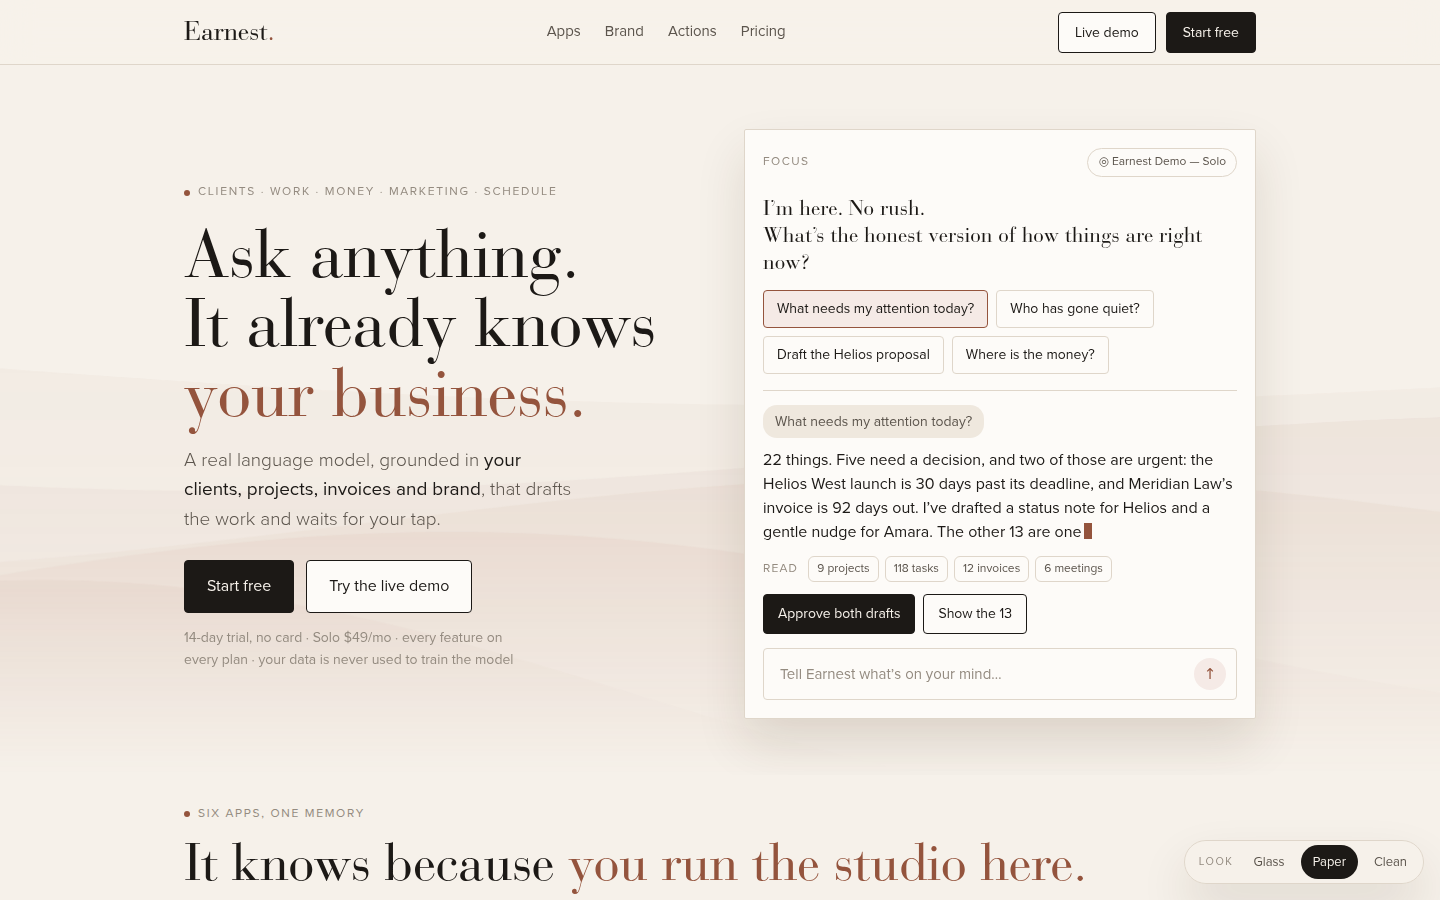
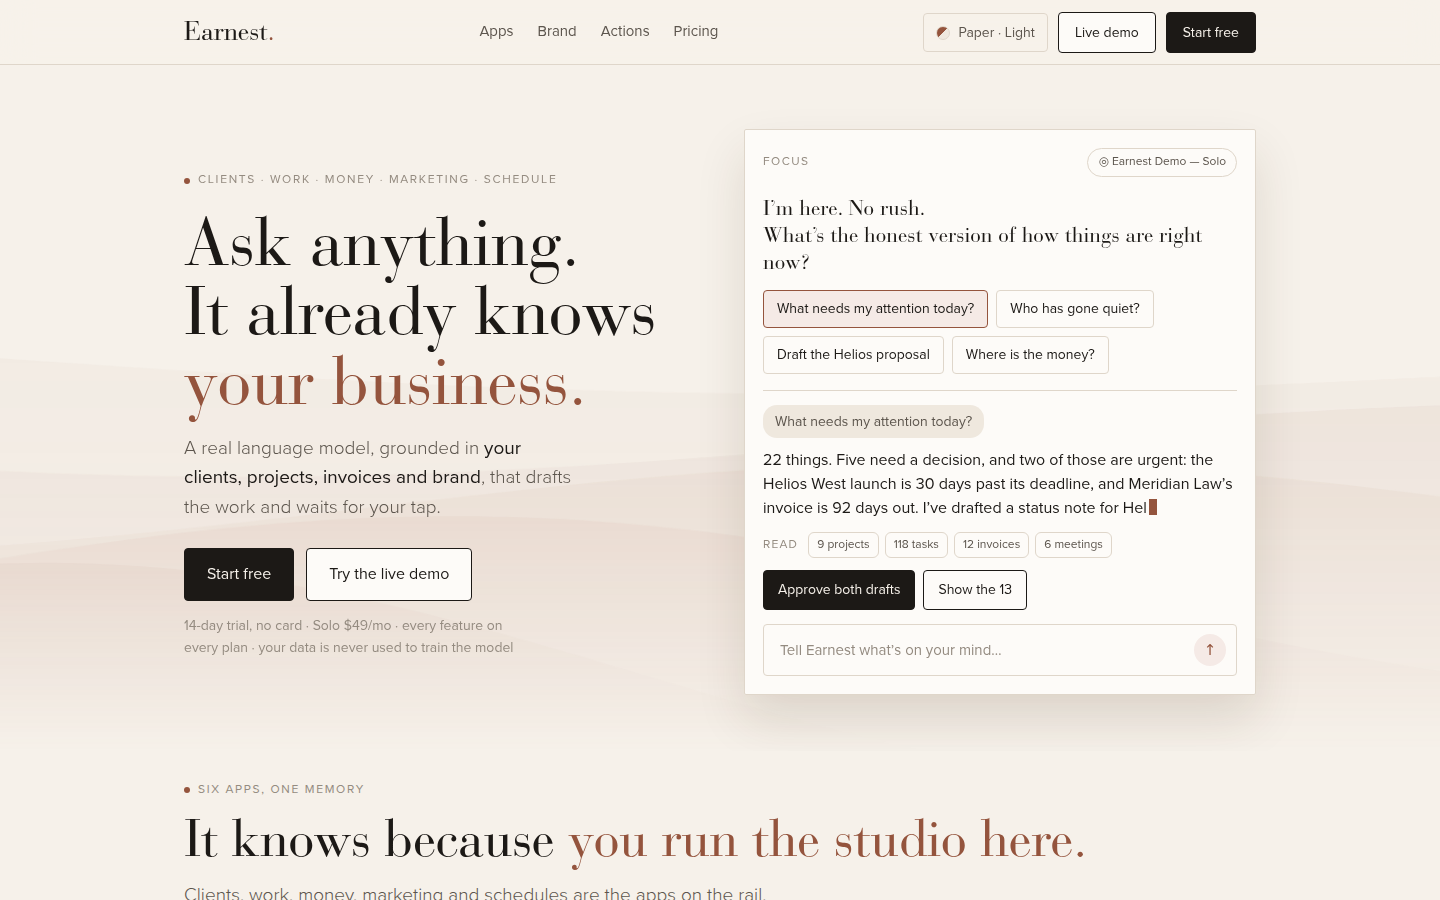
feat(mockups): theme control in the nav, and a Created-by-Hue footer
The combined home gets a Theme control in the nav with the app's own two
axes, Look (Glass, Paper, Clean) and Mode (Light, Dark), six token sets
in all; #paper-dark and the like deep-link both. The footer carries a
"Created by Hue" block saying Earnest is made, sold and billed by Hue
Studios, so a card statement matches the Stripe account. The three
round-1 concepts carry the same line.

Claude-Session: https://claude.ai/code/session_0118qsSvWxcWCHXC2y1mfa98

diff --git a/mockups/2026-09-redesign/earnest-home.html b/mockups/2026-09-redesign/earnest-home.html
@@ -33,6 +33,15 @@
   --wave:0,150,230; --wave-a:.09;
   --measure:1120px;
 }
+/* ── Glass · light ── */
+:root[data-look="glass"][data-mode="light"]{
+  color-scheme:light;
+  --bg:#f3f6fc; --surface:rgba(255,255,255,.7); --surface-2:rgba(226,234,250,.9); --paper:#e9eef8;
+  --ink:#0f1730; --ink-2:#4a5470; --ink-3:#8590aa; --line:rgba(20,40,90,.12);
+  --pop:#0099d6; --pop-ink:#fff; --pop-soft:rgba(0,153,214,.1);
+  --shadow:0 24px 60px rgba(20,40,90,.12);
+  --wave:0,150,230; --wave-a:.07;
+}
 /* ── Paper ── */
 :root[data-look="paper"]{
   color-scheme:light;
@@ -44,6 +53,15 @@
   --font-display:'Bauer Bodoni','Bodoni MT','Didot',Georgia,serif;
   --h-weight:400; --h-transform:none; --h-tracking:-.01em; --h-lh:1.02; --h-scale:1;
   --wave:150,80,60; --wave-a:.06;
+}
+/* ── Paper · dark ── */
+:root[data-look="paper"][data-mode="dark"]{
+  color-scheme:dark;
+  --bg:#1b1714; --surface:#221d19; --surface-2:#2a241f; --paper:#221d19;
+  --ink:#f1ebe3; --ink-2:#bdb3a6; --ink-3:#7d746a; --line:#352e28;
+  --pop:hsl(16 55% 62%); --pop-ink:#1b1714; --pop-soft:hsl(16 40% 20%);
+  --shadow:0 24px 50px rgba(0,0,0,.45);
+  --wave:190,110,80; --wave-a:.07;
 }
 /* ── Clean ── */
 :root[data-look="clean"]{
@@ -58,6 +76,14 @@
   --wave:36,82,238; --wave-a:.05;
 }
 
+/* ── Clean · dark ── */
+:root[data-look="clean"][data-mode="dark"]{
+  color-scheme:dark;
+  --bg:#0c0e14; --surface:#0c0e14; --surface-2:#161a24; --paper:#161a24;
+  --ink:#f2f4f8; --ink-2:#aab1c2; --ink-3:#6e7689; --line:#252a37;
+  --pop:hsl(228 91% 66%); --pop-ink:#0c0e14; --pop-soft:hsl(228 60% 18%);
+  --wave:60,110,255; --wave-a:.07;
+}
 *{box-sizing:border-box}
 html,body{margin:0}
 body{background:var(--bg);color:var(--ink);font-family:var(--font-body);font-size:17px;line-height:1.55;-webkit-font-smoothing:antialiased;overflow-x:hidden;transition:background .25s,color .25s}
@@ -88,16 +114,25 @@ h1,h2,h3{font-family:var(--font-display);font-weight:var(--h-weight);text-transf
 .nav{position:sticky;top:env(safe-area-inset-top,0px);z-index:20;backdrop-filter:blur(16px);background:color-mix(in srgb,var(--bg) 82%,transparent);border-bottom:1px solid var(--line)}
 .nav .wrap{display:flex;align-items:center;justify-content:space-between;height:64px;gap:16px}
 .nav ul{display:flex;gap:24px;list-style:none;margin:0;padding:0;font-size:15px;color:var(--ink-2)}
-.nav .cta{display:flex;gap:10px}
+.nav .cta{display:flex;gap:10px;align-items:center}
 .nav .btn{padding:9px 16px;font-size:14px}
 @media(max-width:860px){.nav ul{display:none}}
 
-/* look switcher */
-.looks{position:fixed;right:16px;bottom:calc(16px + env(safe-area-inset-bottom,0px));z-index:30;display:flex;gap:4px;padding:4px;border-radius:999px;border:1px solid var(--line);background:color-mix(in srgb,var(--bg) 85%,transparent);backdrop-filter:blur(12px);box-shadow:var(--shadow)}
-.looks button{font:inherit;font-size:13px;padding:7px 12px;border-radius:999px;border:0;background:transparent;color:var(--ink-2);cursor:pointer}
-.looks button[aria-pressed="true"]{background:var(--ink);color:var(--bg)}
-.looks .lab{align-self:center;padding-left:10px;padding-right:4px;font-size:11px;letter-spacing:.14em;text-transform:uppercase;color:var(--ink-3)}
-@media(max-width:560px){.looks .lab{display:none}}
+/* theme control (in the nav): Look × Mode, the app's own two axes */
+.theme{position:relative}
+.theme-btn{display:inline-flex;align-items:center;gap:8px;font:inherit;font-size:14px;padding:8px 12px;border-radius:var(--r-btn);border:1px solid var(--line);background:transparent;color:var(--ink-2);cursor:pointer}
+.theme-btn:hover{color:var(--ink)}
+.theme-btn .sw{width:14px;height:14px;border-radius:50%;background:linear-gradient(135deg,var(--pop) 50%,var(--surface-2) 50%);border:1px solid var(--line)}
+.theme-btn .lbl{white-space:nowrap}
+@media(max-width:560px){.theme-btn .lbl{display:none}}
+.theme-pop{position:absolute;right:0;top:calc(100% + 10px);min-width:260px;padding:14px;border-radius:var(--r-card);border:1px solid var(--line);background:var(--bg);box-shadow:var(--shadow);display:grid;gap:12px;z-index:40}
+.theme-pop[hidden]{display:none}
+.theme-pop .row{display:grid;gap:6px}
+.theme-pop .row b{font-weight:400;font-size:11px;letter-spacing:.14em;text-transform:uppercase;color:var(--ink-3)}
+.theme-pop .seg{display:flex;gap:4px;padding:3px;border-radius:var(--r-btn);border:1px solid var(--line);background:var(--surface-2)}
+.theme-pop .seg button{flex:1;font:inherit;font-size:13px;padding:7px 10px;border-radius:var(--r-btn);border:0;background:transparent;color:var(--ink-2);cursor:pointer}
+.theme-pop .seg button[aria-pressed="true"]{background:var(--ink);color:var(--bg)}
+.theme-pop small{color:var(--ink-3);font-size:12px;line-height:1.4}
 
 /* hero */
 .hero{position:relative;isolation:isolate;overflow:hidden;padding-block:64px 56px}
@@ -220,9 +255,18 @@ h1,h2,h3{font-family:var(--font-display);font-weight:var(--h-weight);text-transf
 .cta .mark{font-size:clamp(64px,12vw,140px);line-height:1}
 .cta .tag{font-family:var(--font-note);font-size:26px;color:var(--pop);margin-top:6px}
 .cta .actions{display:flex;justify-content:center;gap:12px;flex-wrap:wrap;margin-top:28px}
-footer{border-top:1px solid var(--line);padding-block:28px 96px;font-size:14px;color:var(--ink-3)}
-footer .wrap{display:flex;justify-content:space-between;gap:16px;flex-wrap:wrap}
-footer a{margin-right:18px}
+footer{border-top:1px solid var(--line);padding-block:40px 48px;font-size:14px;color:var(--ink-3)}
+footer .wrap{display:grid;gap:22px}
+footer .links a{margin-right:18px}
+.hue{display:grid;grid-template-columns:auto 1fr;gap:18px;align-items:center;padding:20px 22px;border:1px solid var(--line);border-radius:var(--r-card);background:var(--surface)}
+.hue .hmark{font-family:var(--font-mark);font-size:34px;line-height:1;color:var(--ink);letter-spacing:-.01em}
+.hue .hmark i{font-style:normal;color:var(--pop)}
+.hue .hmark small{display:block;font-family:var(--font-body);font-size:11px;letter-spacing:.16em;text-transform:uppercase;color:var(--ink-3);margin-top:6px}
+.hue p{color:var(--ink-2);font-size:14px;max-width:70ch}
+.hue p strong{color:var(--ink);font-weight:400}
+.hue p a{color:var(--pop)}
+@media(max-width:560px){.hue{grid-template-columns:1fr}}
+footer .copy{display:flex;justify-content:space-between;gap:16px;flex-wrap:wrap}
 @media(prefers-reduced-motion:reduce){*{animation:none!important;transition:none!important}}
 </style>
 </head>
@@ -238,18 +282,19 @@ footer a{margin-right:18px}
       <li><a href="#pricing">Pricing</a></li>
     </ul>
     <div class="cta">
+      <div class="theme">
+        <button class="theme-btn" id="themeBtn" aria-expanded="false" aria-controls="themePop"><span class="sw" aria-hidden="true"></span><span class="lbl" id="themeLbl">Glass · Dark</span></button>
+        <div class="theme-pop" id="themePop" hidden>
+          <div class="row"><b>Look</b><div class="seg" role="group" aria-label="Look"><button data-look="glass" aria-pressed="true">Glass</button><button data-look="paper" aria-pressed="false">Paper</button><button data-look="clean" aria-pressed="false">Clean</button></div></div>
+          <div class="row"><b>Mode</b><div class="seg" role="group" aria-label="Mode"><button data-mode="light" aria-pressed="false">Light</button><button data-mode="dark" aria-pressed="true">Dark</button></div></div>
+          <small>The same three looks and two modes you get inside Earnest. Remembered on this browser.</small>
+        </div>
+      </div>
       <a class="btn" href="https://app.earnest.guru/try-demo?persona=solo">Live demo</a>
       <a class="btn primary" href="https://app.earnest.guru/register">Start free</a>
     </div>
   </div>
 </nav>
-
-<div class="looks" role="group" aria-label="Look">
-  <span class="lab">Look</span>
-  <button data-look="glass" aria-pressed="true">Glass</button>
-  <button data-look="paper" aria-pressed="false">Paper</button>
-  <button data-look="clean" aria-pressed="false">Clean</button>
-</div>
 
 <header class="hero">
   <canvas id="wave" aria-hidden="true"></canvas>
@@ -428,8 +473,14 @@ footer a{margin-right:18px}
 
 <footer>
   <div class="wrap">
-    <span>© 2026 Earnest · made by Hue Studios</span>
-    <span><a href="#">Features</a><a href="#">Blog</a><a href="#">Privacy</a><a href="#">Terms</a><a href="#">Refunds</a></span>
+    <div class="hue">
+      <div class="hmark">Created by Hue<i>.</i><small>Hue Studios</small></div>
+      <p><strong>Earnest is made and sold by Hue Studios.</strong> Your subscription is billed by Hue Studios and shows as Hue Studios on your card statement. <a href="https://huestudios.com">huestudios.com</a></p>
+    </div>
+    <div class="copy">
+      <span>© 2026 Hue Studios · Earnest · Do good work.</span>
+      <span class="links"><a href="#">Features</a><a href="#">Blog</a><a href="#">Privacy</a><a href="#">Terms</a><a href="#">Refunds</a></span>
+    </div>
   </div>
 </footer>
 
@@ -438,23 +489,35 @@ footer a{margin-right:18px}
   var reduce=matchMedia('(prefers-reduced-motion: reduce)').matches;
   var root=document.documentElement;
 
-  // ── Look ── the same three the app ships; #glass / #paper / #clean deep-links.
-  var LOOKS=['glass','paper','clean'];
-  var lookBtns=[].slice.call(document.querySelectorAll('.looks button'));
-  function setLook(l,store){
-    if(LOOKS.indexOf(l)<0)return;
-    root.setAttribute('data-look',l);
+  // ── Theme ── Look × Mode, the app's own two axes. #glass / #paper / #clean
+  // deep-link a look (and its default mode); #glass-light etc. set both.
+  var LOOKS=['glass','paper','clean'],MODES=['light','dark'],DEFAULT_MODE={glass:'dark',paper:'light',clean:'light'};
+  var pop=document.getElementById('themePop'),tbtn=document.getElementById('themeBtn'),tlbl=document.getElementById('themeLbl');
+  var lookBtns=[].slice.call(pop.querySelectorAll('[data-look]')),modeBtns=[].slice.call(pop.querySelectorAll('[data-mode]'));
+  function cap(x){return x.charAt(0).toUpperCase()+x.slice(1);}
+  function setTheme(l,m,store){
+    if(LOOKS.indexOf(l)<0)l='glass'; if(MODES.indexOf(m)<0)m=DEFAULT_MODE[l];
+    root.setAttribute('data-look',l);root.setAttribute('data-mode',m);
     lookBtns.forEach(function(b){b.setAttribute('aria-pressed',String(b.dataset.look===l));});
+    modeBtns.forEach(function(b){b.setAttribute('aria-pressed',String(b.dataset.mode===m));});
+    tlbl.textContent=cap(l)+' · '+cap(m);
     [].slice.call(document.querySelectorAll('img[data-glass]')).forEach(function(im){
       var src=im.getAttribute('data-'+l)||im.getAttribute('data-glass'); if(im.getAttribute('src')!==src)im.setAttribute('src',src);
     });
-    if(store){try{localStorage.setItem('earnest-look',l);}catch(e){}}
+    if(store){try{localStorage.setItem('earnest-look',l);localStorage.setItem('earnest-mode',m);}catch(e){}}
     readWave();
   }
-  lookBtns.forEach(function(b){b.addEventListener('click',function(){setLook(b.dataset.look,true);});});
-  var initial=(location.hash||'').slice(1);
-  if(LOOKS.indexOf(initial)<0){try{initial=localStorage.getItem('earnest-look')||'glass';}catch(e){initial='glass';}}
-  addEventListener('hashchange',function(){var h=location.hash.slice(1);if(LOOKS.indexOf(h)>=0)setLook(h,false);});
+  function cur(){return {l:root.getAttribute('data-look'),m:root.getAttribute('data-mode')};}
+  lookBtns.forEach(function(b){b.addEventListener('click',function(){setTheme(b.dataset.look,cur().m,true);});});
+  modeBtns.forEach(function(b){b.addEventListener('click',function(){setTheme(cur().l,b.dataset.mode,true);});});
+  tbtn.addEventListener('click',function(){var open=pop.hidden;pop.hidden=!open;tbtn.setAttribute('aria-expanded',String(open));});
+  document.addEventListener('click',function(e){if(!pop.hidden&&!pop.contains(e.target)&&e.target!==tbtn&&!tbtn.contains(e.target)){pop.hidden=true;tbtn.setAttribute('aria-expanded','false');}});
+  document.addEventListener('keydown',function(e){if(e.key==='Escape'&&!pop.hidden){pop.hidden=true;tbtn.setAttribute('aria-expanded','false');}});
+  function fromHash(){var h=(location.hash||'').slice(1).split('-');return LOOKS.indexOf(h[0])>=0?{l:h[0],m:h[1]||DEFAULT_MODE[h[0]]}:null;}
+  var init=fromHash(),initialL='glass',initialM='dark';
+  if(init){initialL=init.l;initialM=init.m;}
+  else{try{initialL=localStorage.getItem('earnest-look')||'glass';initialM=localStorage.getItem('earnest-mode')||DEFAULT_MODE[initialL];}catch(e){}}
+  addEventListener('hashchange',function(){var h=fromHash();if(h)setTheme(h.l,h.m,false);});
 
   // ── Focus demo ── answers written from the seeded demo workspace.
   var Q=[
@@ -511,7 +574,7 @@ footer a{margin-right:18px}
     }
     if(!reduce){t+=0.006;requestAnimationFrame(draw);}
   }
-  setLook(initial,false);
+  setTheme(initialL,initialM,false);
   draw();
 })();
 </script>

diff --git a/mockups/2026-09-redesign/index.html b/mockups/2026-09-redesign/index.html
@@ -84,7 +84,7 @@ tr:last-child td,tr:last-child th{border-bottom:0}
     <span class="mark">Earnest<b>.</b></span>
     <span class="eyebrow">Landing page redesign · September 2026 · round 2</span>
     <h1>One home, three looks.</h1>
-    <p class="lede">Concept A’s thesis (the model, grounded in the studio) with Concept B’s breadth (the six-app switcher), in about half the words, in each of the app’s three looks. The look switcher sits bottom-right on the page; each thumbnail below opens the page already in that look.</p>
+    <p class="lede">Concept A’s thesis (the model, grounded in the studio) with Concept B’s breadth (the six-app switcher), in about half the words, in each of the app’s three looks. A Theme control in the nav sets Look (Glass, Paper, Clean) and Mode (Light, Dark), the same two axes as inside the app. Each thumbnail below opens the page already in that look.</p>
   </header>
 
   <div class="looks">
@@ -105,16 +105,17 @@ tr:last-child td,tr:last-child th{border-bottom:0}
         <li><b>Pricing from B.</b> The capacity ladder is shorter than three plan cards and says the same thing.</li>
         <li><b>FAQ down to three.</b> ChatGPT, missing context, and “will it send on its own”.</li>
         <li><b>Wording.</b> “No-training terms” became “your data is never used to train the model”, here and in the three original concepts.</li>
+        <li><b>Footer.</b> A “Created by Hue” block: Earnest is made and sold by Hue Studios, and the subscription is billed by Hue Studios, so the statement matches the Stripe account. The three concepts carry the same line.</li>
       </ul>
     </div>
     <div>
       <h2>How the looks work</h2>
       <ul>
-        <li><b>One page, one token set per look,</b> switched with a <code>data-look</code> attribute on the root, which is how the app itself does it. Nothing is duplicated.</li>
-        <li><b>Glass</b> is the default: navy ground, sky-blue accent, light Proxima headings, glass cards, the wave field.</li>
-        <li><b>Paper</b> swaps to linen, oxide accent, Bodoni headings, square corners, warm shadows. The home and Money screenshots swap to their Paper captures.</li>
-        <li><b>Clean</b> swaps to white, one blue, DIN condensed caps, borders instead of shadows. The home screenshot swaps to its Clean capture.</li>
-        <li><b>Deep links.</b> <code>#glass</code>, <code>#paper</code> and <code>#clean</code> open the page in that look; the choice is remembered per browser.</li>
+        <li><b>One page, one token set per look and mode,</b> switched with <code>data-look</code> and <code>data-mode</code> on the root, which is how the app itself does it. Six combinations, nothing duplicated.</li>
+        <li><b>Glass</b> is the default and opens dark: navy ground, sky-blue accent, light Proxima headings, glass cards, the wave field. Its light mode is a cool white with the same blue.</li>
+        <li><b>Paper</b> opens light: linen, oxide accent, Bodoni headings, square corners, warm shadows. Dark mode is ink-on-dark-linen with a warmer oxide. The home and Money screenshots swap to their Paper captures.</li>
+        <li><b>Clean</b> opens light: white, one blue, DIN condensed caps, borders instead of shadows. Dark mode is near-black with the same blue lifted. The home screenshot swaps to its Clean capture.</li>
+        <li><b>Deep links.</b> <code>#glass</code>, <code>#paper</code> and <code>#clean</code> open a look in its default mode; <code>#paper-dark</code> and the like set both. The choice is remembered per browser.</li>
         <li><b>Gap.</b> Only the home and Money screens were captured in Paper and Clean, so the other switcher tabs show Glass screenshots in every look. A capture run with the other looks would close it.</li>
       </ul>
     </div>

diff --git a/mockups/2026-09-redesign/concept-a.html b/mockups/2026-09-redesign/concept-a.html
@@ -413,7 +413,7 @@ footer a{margin-right:18px}
 
 <footer>
   <div class="wrap">
-    <span>© 2026 Earnest · made by Hue Studios</span>
+    <span><strong style="font-weight:400;color:inherit">Created by Hue.</strong> Earnest is made and sold by Hue Studios; your subscription is billed by Hue Studios. © 2026</span>
     <span><a href="#">Features</a><a href="#">Blog</a><a href="#">Privacy</a><a href="#">Terms</a><a href="#">Refunds</a></span>
   </div>
 </footer>

diff --git a/mockups/2026-09-redesign/concept-b.html b/mockups/2026-09-redesign/concept-b.html
@@ -379,7 +379,7 @@ footer a{margin-right:18px}
 
 <footer>
   <div class="wrap">
-    <span>© 2026 Earnest · made by Hue Studios</span>
+    <span><strong style="font-weight:400;color:inherit">Created by Hue.</strong> Earnest is made and sold by Hue Studios; your subscription is billed by Hue Studios. © 2026</span>
     <span><a href="#">Features</a><a href="#">Blog</a><a href="#">Privacy</a><a href="#">Terms</a><a href="#">Refunds</a></span>
   </div>
 </footer>

diff --git a/mockups/2026-09-redesign/concept-c.html b/mockups/2026-09-redesign/concept-c.html
@@ -406,7 +406,7 @@ footer a{margin-right:18px}
 
 <footer>
   <div class="wrap">
-    <span>© 2026 Earnest · made by Hue Studios</span>
+    <span><strong style="font-weight:400;color:inherit">Created by Hue.</strong> Earnest is made and sold by Hue Studios; your subscription is billed by Hue Studios. © 2026</span>
     <span><a href="#">Features</a><a href="#">Blog</a><a href="#">Privacy</a><a href="#">Terms</a><a href="#">Refunds</a></span>
   </div>
 </footer>

diff --git a/mockups/2026-09-redesign/README.md b/mockups/2026-09-redesign/README.md
@@ -7,16 +7,23 @@ links to the three round-1 concepts it was built from.
 
 Concept A's thesis (the model, grounded in the studio) with Concept B's
 breadth (the six-app switcher), in about half the words, presented in all
-three of the app's looks from one file. A look switcher sits bottom-right;
-`#glass`, `#paper` and `#clean` deep-link to a look, and the choice is
+three of the app's looks from one file. A Theme control in the nav sets Look
+(Glass, Paper, Clean) and Mode (Light, Dark), the app's own two axes, six
+combinations in all. `#glass`, `#paper` and `#clean` deep-link to a look in
+its default mode; `#paper-dark` and the like set both. The choice is
 remembered per browser.
+
+The footer carries a "Created by Hue" block: Earnest is made and sold by Hue
+Studios, and the subscription is billed by Hue Studios, so what a customer
+sees on a card statement matches the Stripe account. The three concepts carry
+the same line.
 
 Page order: nav · hero (copy | Focus demo) · six-app switcher · replace strip ·
 brand (profile card, three drafts) · AI Actions (diff, guardrail) · Decide ·
 Do · Know · pricing ladder · three FAQs · CTA.
 
-The looks are one token set each on `<html data-look>`, the same mechanism
-the app uses. Paper swaps the home and Money screenshots to their Paper
+The looks are one token set each on `<html data-look data-mode>`, the same
+mechanism the app uses. Paper swaps the home and Money screenshots to their Paper
 captures; Clean swaps the home. The other switcher tabs show Glass captures
 in every look, because only the home and Money screens were captured in
 Paper and Clean.
